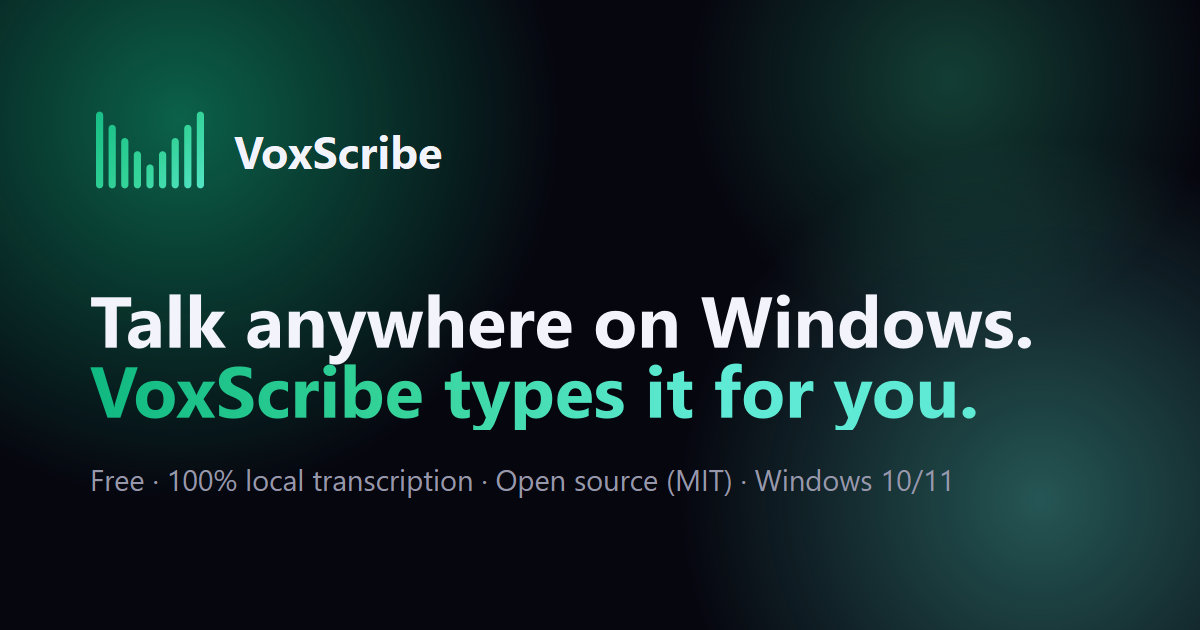
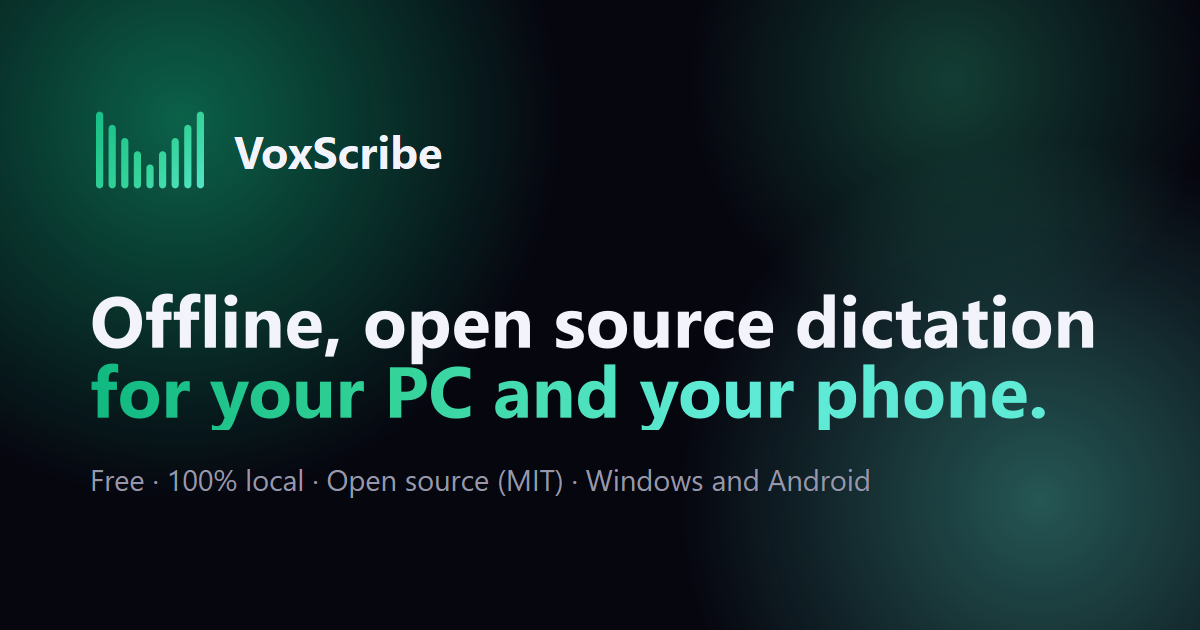
README and site: lead with "Offline, open source dictation for your PC and your phone"
The home page headline, page title, search description and link previews
now cover Windows and Android instead of Windows only, and the social image
is rebuilt with the new headline.

Changed region(s): [[0.0617, 0.4524, 0.925, 0.6937], [0.2467, 0.7238, 0.8017, 0.7841]]

diff --git a/docs/index.html b/docs/index.html
@@ -13,8 +13,8 @@
   gtag('config', 'G-J19HV65Q6T');
 </script>
 <meta name="google-site-verification" content="smSR5YQ-xXXxhAXEZAcA3EPUOY-xN0kxTL2z_FA7f4g" />
-<title>VoxScribe: Free Offline Voice Typing for Windows and Android</title>
-<meta name="description" content="Free, open-source voice typing for Windows and Android. Hold a hotkey or a floating button, speak, and Whisper types it into any app. Offline, no subscription.">
+<title>VoxScribe: Offline, Open Source Dictation for Your PC and Phone</title>
+<meta name="description" content="Offline, open source dictation for your PC and your phone. Free voice typing for Windows and Android: hold a hotkey or a floating button, speak, and Whisper types it into any app. No subscription, nothing uploaded.">
 
 <link rel="canonical" href="https://voxscribe-ai-voice-dictation.vercel.app/">
 <link rel="icon" type="image/png" sizes="32x32" href="favicon-32.png">
@@ -25,18 +25,18 @@
 <meta property="og:type" content="website">
 <meta property="og:site_name" content="VoxScribe">
 <meta property="og:locale" content="en_US">
-<meta property="og:title" content="VoxScribe: Free Offline Voice Dictation for Windows (Open Source)">
-<meta property="og:description" content="Free, open-source voice typing for Windows. Hold a hotkey, speak, and Whisper types the text into any app. Runs offline on your PC, no subscription.">
+<meta property="og:title" content="VoxScribe: Offline, open source dictation for your PC and your phone">
+<meta property="og:description" content="Free voice typing for Windows and Android. Talk, and Whisper types your words into any app, on your own device. No subscription, nothing uploaded.">
 <meta property="og:image" content="https://voxscribe-ai-voice-dictation.vercel.app/og-image.png">
 <meta property="og:image:width" content="1200">
 <meta property="og:image:height" content="630">
-<meta property="og:image:alt" content="VoxScribe, free offline voice dictation for Windows">
+<meta property="og:image:alt" content="VoxScribe: offline, open source dictation for your PC and your phone">
 <meta property="og:url" content="https://voxscribe-ai-voice-dictation.vercel.app/">
 <meta name="twitter:card" content="summary_large_image">
-<meta name="twitter:title" content="VoxScribe: Free Offline Voice Dictation for Windows (Open Source)">
-<meta name="twitter:description" content="Free, open-source voice typing for Windows. Hold a hotkey, speak, and Whisper types the text into any app. Runs offline on your PC, no subscription.">
+<meta name="twitter:title" content="VoxScribe: Offline, open source dictation for your PC and your phone">
+<meta name="twitter:description" content="Free voice typing for Windows and Android. Talk, and Whisper types your words into any app, on your own device. No subscription, nothing uploaded.">
 <meta name="twitter:image" content="https://voxscribe-ai-voice-dictation.vercel.app/og-image.png">
-<meta name="twitter:image:alt" content="VoxScribe, free offline voice dictation for Windows">
+<meta name="twitter:image:alt" content="VoxScribe: offline, open source dictation for your PC and your phone">
 
 <script type="application/ld+json">
 {"@context":"https://schema.org","@type":"SoftwareApplication","name":"VoxScribe","applicationCategory":"UtilitiesApplication","operatingSystem":"Windows 10, Windows 11","description":"Free, open-source, offline voice dictation for Windows using Whisper. Hold a hotkey, talk, and the text is typed into any app.","url":"https://voxscribe-ai-voice-dictation.vercel.app/","downloadUrl":"https://github.com/ahmedhmam1994/voxscribe-ai-voice-dictation/releases/latest","softwareVersion":"1.8.1","license":"https://opensource.org/licenses/MIT","isAccessibleForFree":true,"offers":[{"@type":"Offer","price":"0","priceCurrency":"USD","name":"Free"},{"@type":"Offer","price":"14","priceCurrency":"USD","name":"Pro (one-time)"}],"image":"https://voxscribe-ai-voice-dictation.vercel.app/og-image.png"}
@@ -476,8 +476,8 @@
       <svg width="12" height="12" viewBox="0 0 24 24" fill="none" xmlns="http://www.w3.org/2000/svg"><rect x="5" y="10.5" width="14" height="9.5" rx="2" stroke="currentColor" stroke-width="2.2"/><path d="M8.5 10.5V7.5a3.5 3.5 0 0 1 7 0v3" stroke="currentColor" stroke-width="2.2"/></svg>
       100% Local &middot; Free &amp; Open Source
     </span>
-    <h1>Talk anywhere on Windows.<br>VoxScribe <span class="accent">types it for you.</span></h1>
-    <p class="subhead">Hold <kbd class="keycap">F9</kbd>, speak, release. Your words are transcribed on your own PC and typed directly into whatever app you're focused in. No subscription, no cloud upload, no clipboard hijacking.</p>
+    <h1>Offline, open source dictation<br><span class="accent">for your PC and your phone.</span></h1>
+    <p class="subhead">On Windows, hold <kbd class="keycap">F9</kbd>, speak, release. On Android, tap the floating button above your keyboard. Your words are transcribed on your own device and typed straight into whatever app you're in. No subscription, no cloud upload, no clipboard hijacking.</p>
     <div class="cta-row">
       <a class="btn btn-primary" href="https://github.com/ahmedhmam1994/voxscribe-ai-voice-dictation/releases/latest">
         <svg width="15" height="15" viewBox="0 0 24 24" fill="none" xmlns="http://www.w3.org/2000/svg"><path d="M12 3v13M12 16l-5-5M12 16l5-5M5 21h14" stroke="currentColor" stroke-width="2" stroke-linecap="round" stroke-linejoin="round"/></svg>

diff --git a/scripts/generate_web_assets.py b/scripts/generate_web_assets.py
@@ -106,14 +106,16 @@ def make_og_image() -> QPixmap:
     painter.setFont(headline_font)
     painter.setPen(QColor("#f3f3fb"))
     headline_rect = QRectF(90, 270, 1020, 130)
-    painter.drawText(headline_rect, Qt.AlignLeft | Qt.TextWordWrap, "Talk anywhere on Windows.")
+    painter.drawText(
+        headline_rect, Qt.AlignLeft | Qt.TextWordWrap, "Offline, open source dictation"
+    )
 
     grad_text = QLinearGradient(QPointF(90, 0), QPointF(700, 0))
     grad_text.setColorAt(0.0, QColor(ACCENT))
     grad_text.setColorAt(0.5, QColor(ACCENT_HOVER))
     grad_text.setColorAt(1.0, QColor(CYAN))
     painter.setPen(QPen(QBrush(grad_text), 0))
-    painter.drawText(QRectF(90, 340, 1020, 90), Qt.AlignLeft, "VoxScribe types it for you.")
+    painter.drawText(QRectF(90, 340, 1020, 90), Qt.AlignLeft, "for your PC and your phone.")
 
     # Subhead / stats line
     painter.setPen(QColor("#9797ac"))
@@ -122,7 +124,7 @@ def make_og_image() -> QPixmap:
     painter.drawText(
         QRectF(90, 460, 1020, 60),
         Qt.AlignLeft,
-        "Free · 100% local transcription · Open source (MIT) · Windows 10/11",
+        "Free · 100% local · Open source (MIT) · Windows and Android",
     )
 
     painter.end()

diff --git a/README.md b/README.md
@@ -1,5 +1,5 @@
 <p align="center">
-  <img src="docs/assets/readme-banner.png" alt="VoxScribe: free, offline voice typing for Windows and Android" width="100%">
+  <img src="docs/assets/readme-banner.png" alt="VoxScribe: offline, open source dictation for your PC and your phone" width="100%">
 </p>
 
 <p align="center">
@@ -10,6 +10,8 @@
 </p>
 
 # VoxScribe
+
+**Offline, open source dictation for your PC and your phone.**
 
 Free, open-source voice typing for **Windows** and **Android**. Talk, and your words are typed straight into whatever app you are using. Your speech is transcribed **locally on your own device** and never uploaded anywhere.
 
